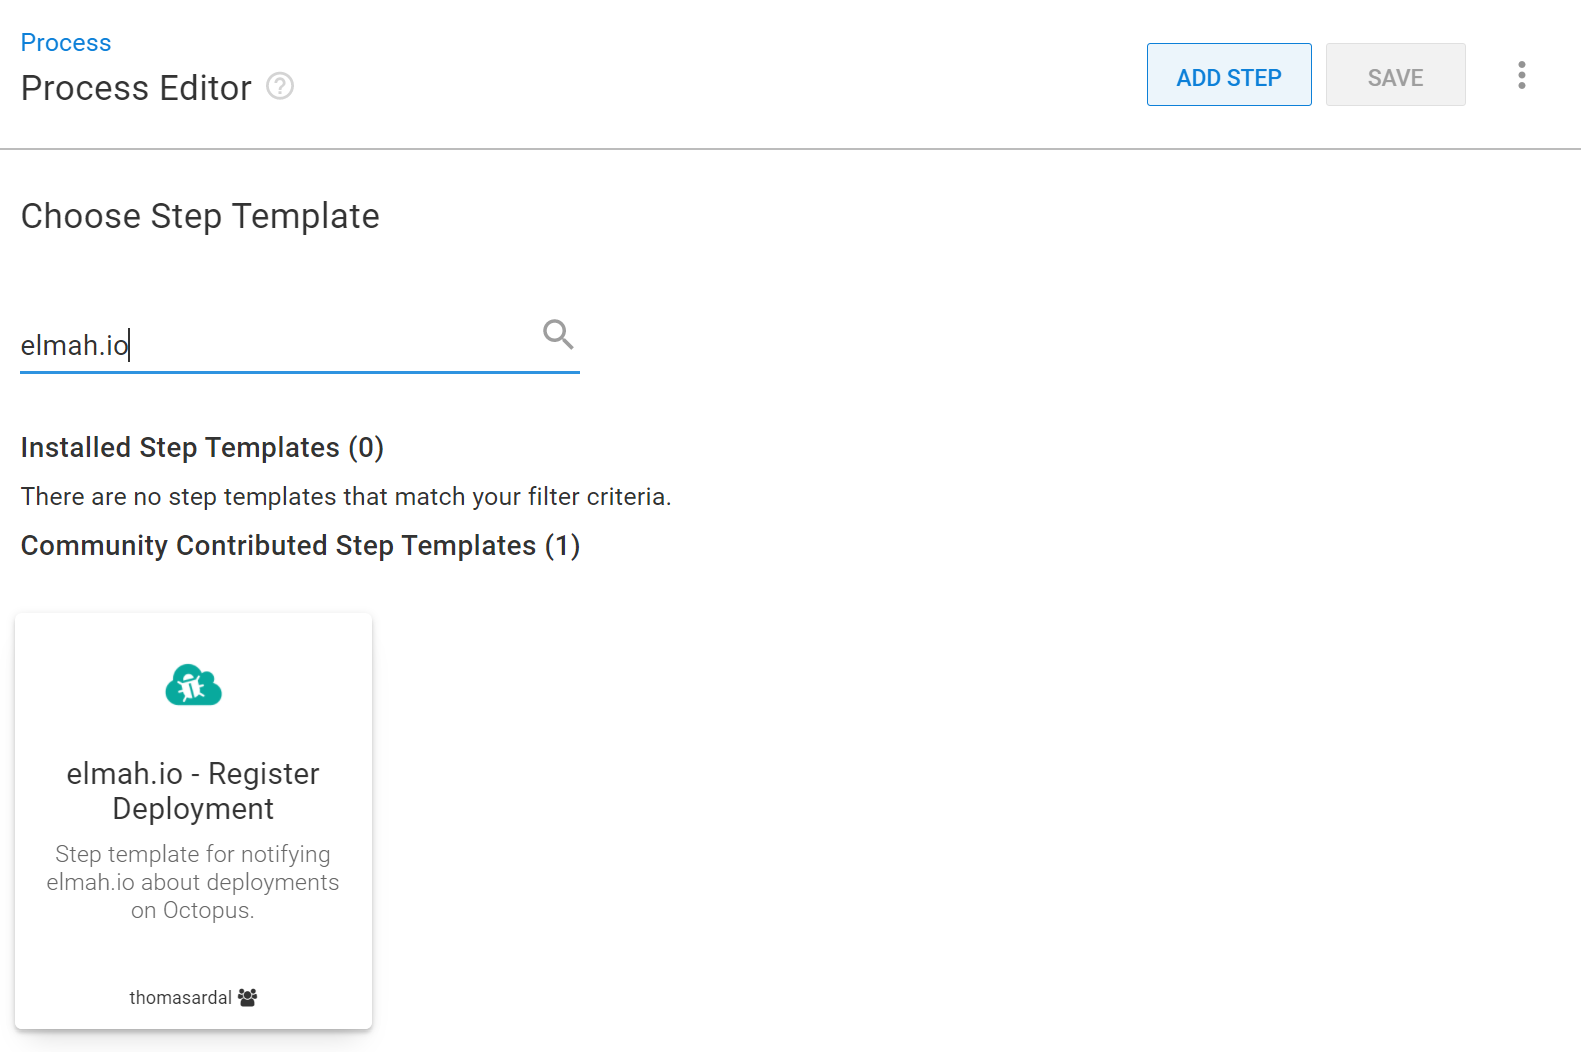
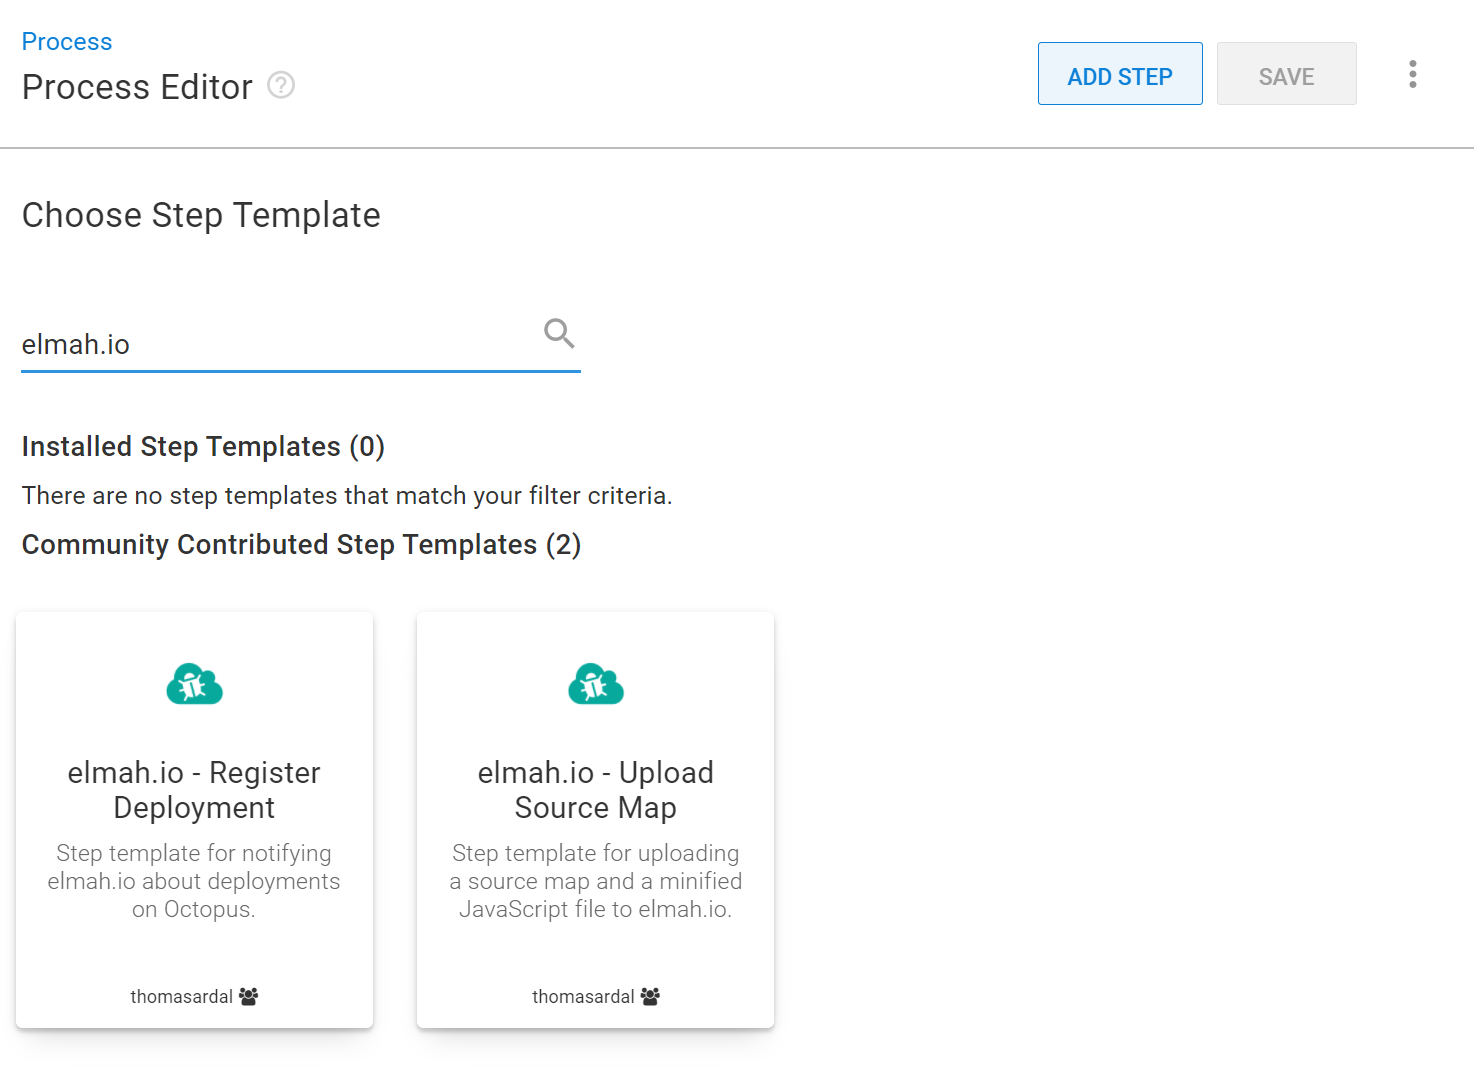
Install guide to octopus step template for uploading source maps

diff --git a/docs/sourcemaps.md b/docs/sourcemaps.md
@@ -132,3 +132,17 @@ with:
   sourceMap: 'path/to/sharedbundle.map'
   minifiedJavaScript: 'path/to/sharedbundle.min.js'
 ```
+
+### Upload from Octopus Deploy
+
+Uploading one or more source from Octopus Deploy is available using our step template for Octopus. The step template can be installed in multiple ways as explained on <a href="https://octopus.com/docs/projects/community-step-templates" target="_blank" rel="noopener noreferrer">Community step templates</a>. In this document, the step template will be installed directly from the *Process Editor*:
+
+1. Go to the *Process Editor* and click the **ADD STEP** button. In the *Choose Step Template* section search for 'elmah.io':
+![Search step template](images/deploy-notification/octopus_search_step_template.png)
+
+2. Hover over the 'elmah.io - Upload Source Map' community template and click the **INSTALL AND ADD** button.
+
+3. In the *Install and add* modal click the **SAVE** button.
+
+4. The step template is now added to the process. Fill in all fields as shown here:
+![Fill in step template](images/octopus_upload_source_map.png)

diff --git a/docs/create-deployments-from-octopus-deploy.md b/docs/create-deployments-from-octopus-deploy.md
@@ -5,7 +5,7 @@ Notifying elmah.io of a new deployment from Octopus Deploy is supported through 
 1. Go to the *Process Editor* and click the **ADD STEP** button. In the *Choose Step Template* section search for 'elmah.io':
 ![Search step template](images/deploy-notification/octopus_search_step_template.png)
 
-2. Hover over the 'elmah.io Register Deployment' community template and click the **INSTALL AND ADD** button.
+2. Hover over the 'elmah.io - Register Deployment' community template and click the **INSTALL AND ADD** button.
 
 3. In the *Install and add* modal click the **SAVE** button.
 
